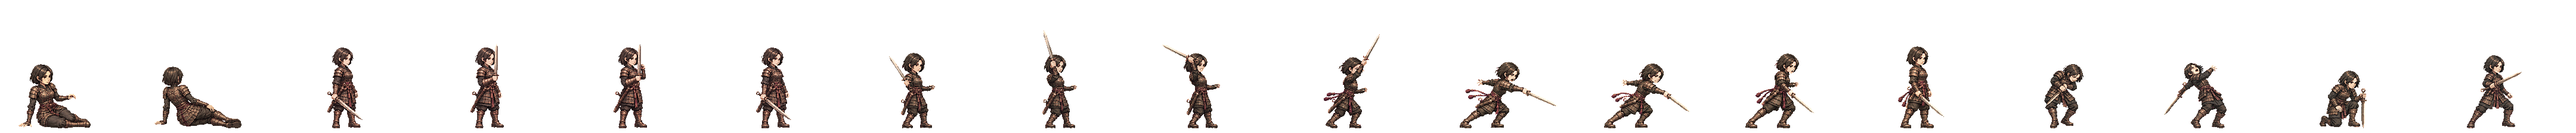
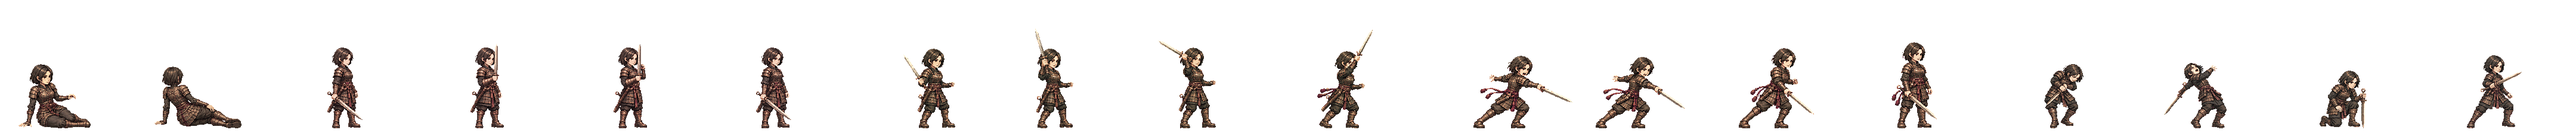
가야 검사 아라 내려베기를 몸을 4분의 3쯤 돌린 판으로 (형 「공격할 때 작아지고 체형도 변한다」)
그림 API(gpt-image-2)로 내려베기 a·b 판을 자세·칼은 그대로 두고 몸통만 서기처럼 돌려 다시 받음(R2·R3 · Codex 줄이 차 있어 API 로). Claude API 검수: 여덟 칸 중 칸4(머리 위로 드는 칸)만 아직 옆으로 돌아 보임 · 나머지 일곱은 걸림 없음. 띠 판정 합격(경고: 뻗음 105%) · 시험 2167 통과.

Claude-Session: https://claude.ai/code/session_01TRiuN7s6aDfSnaHxrkctmU

Changed region(s): [[0.5625, 0.3125, 0.75, 0.9688], [0.4062, 0.3438, 0.5312, 0.9688], [0.3438, 0.375, 0.375, 0.9688]]

diff --git a/tools/sprite-kit/anim-harness.py b/tools/sprite-kit/anim-harness.py
@@ -46,7 +46,7 @@ HEROES = {
     'diver': dict(hit=True, strip='gen-base-w-17-mahan-pearl-diver', atk='thrust', src='thrust2', actw=264, atk8=True, act=True, legacy=(('a', 2), ('a', 3), ('b', 3), ('b', 4))),   # 해녀(작살) · 11-24 새 찌르기 인형으로 b 까지 받음(예전엔 b 가 거절돼 앞 판만 썼다)
     'huntress': dict(hit=True, strip='gen-base-w-06-buyeo-huntress', atk='thrust', src='thrust2', actw=264, atk8=True, act=True, legacy=(('a', 2), ('a', 3), ('b', 3), ('b', 4))),   # 부여 사냥꾼(창)
     'dallae': dict(hit=True, strip='gen-base-w-64-miri-dallae', atk='thrust', src='thrust2', actw=264, atk8=True, act=True, legacy=(('a', 2), ('a', 3), ('b', 3), ('b', 4))),   # 미리 군주 달래(창)
-    'ara': dict(hit=True, atkk=1.05, strip='gen-ara', atk='slash', atk8=True, act=True, legacy=(('a', 1), ('a', 3), ('b', 2), ('b', 4))),   # 가야 검사 아라(한 손 칼) · 좁은 칸: 머리 위로 곧게 세운 a2 는 위가, 끝까지 벤 b1 은 앞이 넘친다
+    'ara': dict(hit=True, atkk=1.05, strip='gen-ara', atk='slash', src='slash2', atk8=True, act=True, legacy=(('a', 1), ('a', 3), ('b', 2), ('b', 4))),   # 가야 검사 아라(한 손 칼) · 좁은 칸: 머리 위로 곧게 세운 a2 는 위가, 끝까지 벤 b1 은 앞이 넘친다
     'dtiger': dict(hit=True, strip='gen-base-w-22-dongye-tiger-huntress', atk='thrust', src='thrust2', actw=264, atk8=True, act=True, legacy=(('a', 2), ('a', 3), ('b', 3), ('b', 4))),   # 동예 범 사냥꾼(창)
     'noeul': dict(hit=True, strip='gen-noeul', atk='bow', atk8=False),   # 사로 노을(활)
     'sagong': dict(hit=True, strip='gen-sagong', atk='thrust', src='thrust2', actw=264, atk8=True, act=True, legacy=(('a', 2), ('a', 3), ('b', 3), ('b', 4))),   # 사물 사공(두 손 노 · 찌르기)
